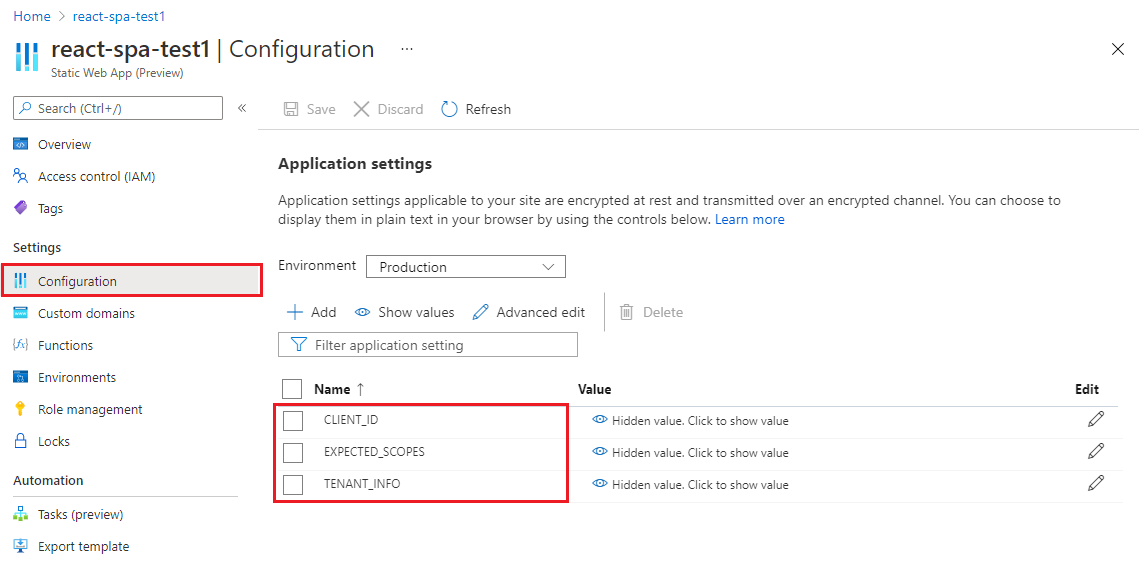
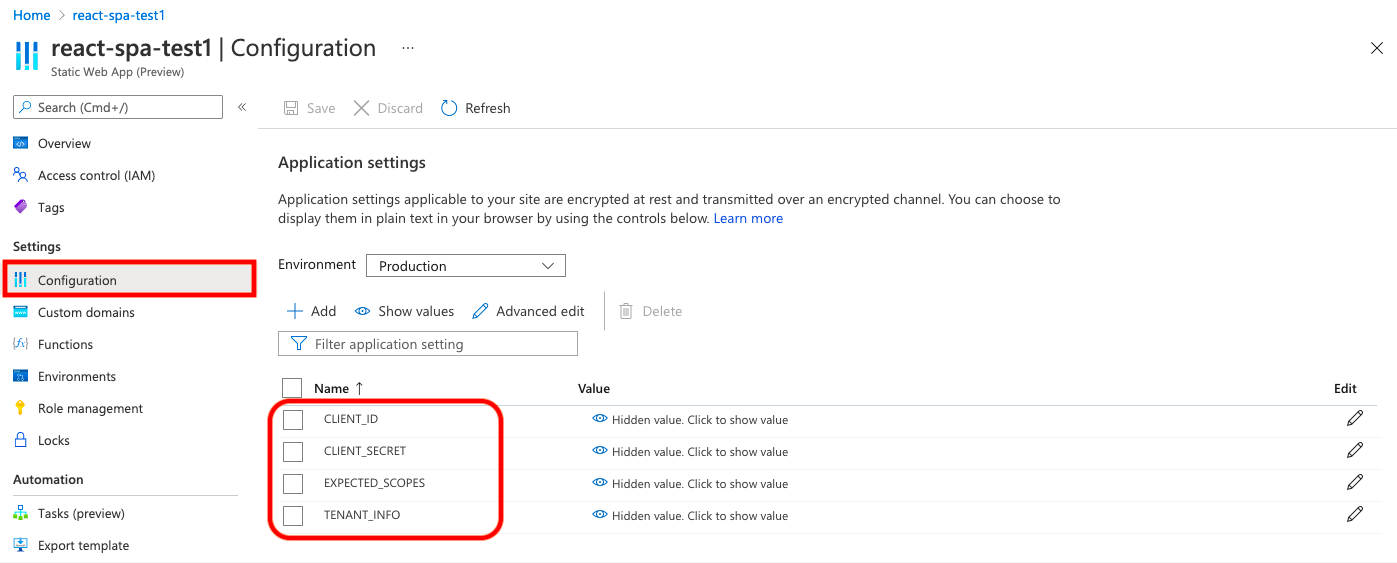
review changes

diff --git a/4-Deployment/1-deploy-storage/README.md b/4-Deployment/1-deploy-storage/README.md
@@ -32,15 +32,48 @@ For React applications with routing support, you can use [Azure Static Web Apps]
 - [VS Code Azure Tools Extension](https://marketplace.visualstudio.com/items?itemName=ms-vscode.vscode-node-azure-pack) extension is recommended for interacting with **Azure** through VS Code interface.
 - An **Azure subscription**. This sample uses **Azure Storage** and **Azure App Service**.
 
+## Setup
+
+### Step 1: Clone or download this repository
+
+From your shell or command line:
+
+```console
+    git clone https://github.com/Azure-Samples/ms-identity-javascript-react-tutorial.git
+```
+
+or download and extract the repository .zip file.
+
+> :warning: To avoid path length limitations on Windows, we recommend cloning into a directory near the root of your drive.
+
+### Step 2: Install project dependencies
+
+- Setup the service app:
+
+```console
+    cd ms-identity-javascript-react-tutorial
+    cd 4-Deployment/1-deploy-storage
+    cd API
+    npm install
+```
+
+- Setup the client app:
+
+```console
+    cd ..
+    cd SPA
+    npm install
+```
+
 ## Registration
 
 ### Register the service app (Node.js web API)
 
-Use the same app registration credentials that you've obtained during [**chapter 3-1**](../3-Authorization-II/1-call-api).
+Use the same app registration credentials that you've obtained during [**chapter 3-1**](../../3-Authorization-II/1-call-api/README.md#registration). Update your project files here as needed.
 
 ### Register the client app (React SPA)
 
-Use the same app registration credentials that you've obtained during [**chapter 3-1**](../3-Authorization-II/1-call-api).
+Use the same app registration credentials that you've obtained during [**chapter 3-1**](../../3-Authorization-II/1-call-api/README.md#registration). Update your project files here as needed.
 
 ## Deployment
 
@@ -80,10 +113,6 @@ Now you need to navigate to the **Azure App Service** Portal, and locate your pr
 
 ![disable_easy_auth](./ReadmeFiles/disable_easy_auth.png)
 
-#### Step 3: Enable cross-origin resource sharing (CORS)
-
-![enable_cors](./ReadmeFiles/enable_cors.png)
-
 ### Deploy the client app (React SPA)
 
 There are various ways to deploy your applications to **Azure Storage**. Here we provide steps for deployment via **VS Code Azure Tools Extension**. For more alternatives, visit: [Static website hosting in Azure Storage](https://docs.microsoft.com/azure/storage/blobs/storage-blob-static-website#uploading-content).
@@ -122,13 +151,19 @@ This will create a `build` folder. We will upload the contents of this folder ne
 
 #### Step 3: Update the client app's configuration files
 
-Now you need to update your authentication configuration files in the client project. To do so, go to your **Azure Storage Account** explorer via **VS Code** Azure panel. There, click on your project's name > Blob Container > Web as shown below:
+Now you need to update your authentication configuration files in the client project. To do so, go to your **Azure Storage Account** explorer via **VS Code** Azure panel. There, click on your project's name > **Blob Container** > **Web** as shown below:
 
 ![spa_step4](./ReadmeFiles/spa_step4.png)
 
 Open `authConfig.js`. Then:
 
 1. Find the key `protectedResources.apiHello.endpoint` and replace the existing value with your published web API's endpoint, e.g. `https://node-webapi-1.azurewebsites.net/hello`
+
+#### Step 4: Enable cross-origin resource sharing (CORS) for service app
+
+Finally, we need to enable Cross-Origin Resource Sharing by designating the domain of the SPA we've just deployed. Navigate to App Service portal and locate your web API. Then, enable CORS by entering your website's URI as shown below:
+
+![enable_cors](./ReadmeFiles/enable_cors.png)
 
 ## Explore the sample
 

diff --git a/4-Deployment/2-deploy-static/README.md b/4-Deployment/2-deploy-static/README.md
@@ -46,6 +46,8 @@ As a first step you'll need to:
 
 ### Register the app
 
+> :information_source: Below, we are using a single app registration for both SPA and function API components.
+
 1. Navigate to the [Azure portal](https://portal.azure.com) and select the **Azure AD** service.
 1. Select the **App Registrations** blade on the left, then select **New registration**.
 1. In the **Register an application page** that appears, enter your application's registration information:
@@ -156,9 +158,9 @@ There are various ways to deploy your applications to **Azure Static Web Apps**.
 1. Find the application you've created previously under **Azure Static Web Apps** and select it.
 1. Select the **Configuration** blade on the left hand side. Add the following **environment variables** there:
     1. `CLIENT_ID`: enter the application ID (clientId) of `msal-react-spa` app copied from the Azure portal.
-    1. `TENANT_ID`: enter your Azure AD tenant ID.
+    1. `TENANT_INFO`: enter your Azure AD tenant ID.
     1. `CLIENT_SECRET`: enter your client secret that you've obtained during app registration.
-    1. `EXPECTED_SCOPES`: enter the name of the scope in APP ID URI that you've registered earlier.
+    1. `EXPECTED_SCOPES`: enter the name of the scope you exposed earlier, e.g. `access_as_user`.
 
 ![Step9](./ReadmeFiles/step9.png)
 
@@ -169,7 +171,7 @@ For more information, see [Configure application settings for Azure Static Web A
 1. Open your browser and navigate to your deployed client app's URI, for instance: `https://reactspa1.z22.web.core.windows.net/`.
 1. Select the **Sign In** button on the top right corner. Choose either **Popup** or **Redirect** flow.
 1. Select the **Profile** button on the navigation bar. This will make a call to the Microsoft Graph API.
-1. Select the **FunctionAPI** button on the navigation bar. This will make a call to your web API which in turn calls the Microsoft Graph API.
+1. Select the **FunctionAPI** button on the navigation bar. This will make a call to your web API which in turn calls the Microsoft Graph. API.
 
 ![Screenshot](./ReadmeFiles/screenshot.png)
 

diff --git a/1-Authentication/1-sign-in/README-incremental.md b/1-Authentication/1-sign-in/README-incremental.md
@@ -137,6 +137,45 @@ Were we successful in addressing your learning objective? Consider taking a mome
 
 ## About the code
 
+MSAL React should be instantiated outside of the component tree to prevent it from being re-instantiated on re-renders. After instantiation, pass it as props to your application.
+
+```javascript
+const msalInstance = new PublicClientApplication(msalConfig);
+
+ReactDOM.render(
+    <React.StrictMode>
+        <App msalInstance={msalInstance}/>
+    </React.StrictMode>,
+    document.getElementById("root")
+);
+
+export default function App({msalInstance}) {
+
+    return (
+        <MsalProvider instance={msalInstance}>
+            <PageLayout>
+                <MainContent />
+            </PageLayout>
+        </MsalProvider>
+    );
+}
+```
+
+At the top of your component tree, wrap everything between **MsalProvider** component. All components underneath **MsalProvider** will have access to the *PublicClientApplication* instance via context as well as all hooks and components provided by msal-react.
+
+```javascript
+export default function App({msalInstance}) {
+
+    return (
+        <MsalProvider instance={msalInstance}>
+            <PageLayout>
+                <MainContent />
+            </PageLayout>
+        </MsalProvider>
+    );
+}
+```
+
 ### Sign-in
 
 MSAL.js exposes 3 login APIs: `loginPopup()`, `loginRedirect()` and `ssoSilent()`. These APIs are usable in MSAL React as well:

diff --git a/1-Authentication/1-sign-in/README.md b/1-Authentication/1-sign-in/README.md
@@ -151,6 +151,45 @@ Were we successful in addressing your learning objective? Consider taking a mome
 
 ## About the code
 
+MSAL React should be instantiated outside of the component tree to prevent it from being re-instantiated on re-renders. After instantiation, pass it as props to your application.
+
+```javascript
+const msalInstance = new PublicClientApplication(msalConfig);
+
+ReactDOM.render(
+    <React.StrictMode>
+        <App msalInstance={msalInstance}/>
+    </React.StrictMode>,
+    document.getElementById("root")
+);
+
+export default function App({msalInstance}) {
+
+    return (
+        <MsalProvider instance={msalInstance}>
+            <PageLayout>
+                <MainContent />
+            </PageLayout>
+        </MsalProvider>
+    );
+}
+```
+
+At the top of your component tree, wrap everything between **MsalProvider** component. All components underneath **MsalProvider** will have access to the *PublicClientApplication* instance via context as well as all hooks and components provided by msal-react.
+
+```javascript
+export default function App({msalInstance}) {
+
+    return (
+        <MsalProvider instance={msalInstance}>
+            <PageLayout>
+                <MainContent />
+            </PageLayout>
+        </MsalProvider>
+    );
+}
+```
+
 ### Sign-in
 
 MSAL.js exposes 3 login APIs: `loginPopup()`, `loginRedirect()` and `ssoSilent()`. These APIs are usable in MSAL React as well:

diff --git a/1-Authentication/2-sign-in-b2c/README-incremental.md b/1-Authentication/2-sign-in-b2c/README-incremental.md
@@ -124,6 +124,45 @@ Were we successful in addressing your learning objective? Consider taking a mome
 
 ## About the code
 
+MSAL React should be instantiated outside of the component tree to prevent it from being re-instantiated on re-renders. After instantiation, pass it as props to your application.
+
+```javascript
+const msalInstance = new PublicClientApplication(msalConfig);
+
+ReactDOM.render(
+    <React.StrictMode>
+        <App msalInstance={msalInstance}/>
+    </React.StrictMode>,
+    document.getElementById("root")
+);
+
+export default function App({msalInstance}) {
+
+    return (
+        <MsalProvider instance={msalInstance}>
+            <PageLayout>
+                <MainContent />
+            </PageLayout>
+        </MsalProvider>
+    );
+}
+```
+
+At the top of your component tree, wrap everything between **MsalProvider** component. All components underneath **MsalProvider** will have access to the *PublicClientApplication* instance via context as well as all hooks and components provided by msal-react.
+
+```javascript
+export default function App({msalInstance}) {
+
+    return (
+        <MsalProvider instance={msalInstance}>
+            <PageLayout>
+                <MainContent />
+            </PageLayout>
+        </MsalProvider>
+    );
+}
+```
+
 ### Sign-in
 
 MSAL.js exposes 3 login APIs: `loginPopup()`, `loginRedirect()` and `ssoSilent()`. These APIs are usable in MSAL React as well:

diff --git a/1-Authentication/2-sign-in-b2c/README.md b/1-Authentication/2-sign-in-b2c/README.md
@@ -138,6 +138,45 @@ Were we successful in addressing your learning objective? Consider taking a mome
 
 ## About the code
 
+MSAL React should be instantiated outside of the component tree to prevent it from being re-instantiated on re-renders. After instantiation, pass it as props to your application.
+
+```javascript
+const msalInstance = new PublicClientApplication(msalConfig);
+
+ReactDOM.render(
+    <React.StrictMode>
+        <App msalInstance={msalInstance}/>
+    </React.StrictMode>,
+    document.getElementById("root")
+);
+
+export default function App({msalInstance}) {
+
+    return (
+        <MsalProvider instance={msalInstance}>
+            <PageLayout>
+                <MainContent />
+            </PageLayout>
+        </MsalProvider>
+    );
+}
+```
+
+At the top of your component tree, wrap everything between **MsalProvider** component. All components underneath **MsalProvider** will have access to the *PublicClientApplication* instance via context as well as all hooks and components provided by msal-react.
+
+```javascript
+export default function App({msalInstance}) {
+
+    return (
+        <MsalProvider instance={msalInstance}>
+            <PageLayout>
+                <MainContent />
+            </PageLayout>
+        </MsalProvider>
+    );
+}
+```
+
 ### Sign-in
 
 MSAL.js exposes 3 login APIs: `loginPopup()`, `loginRedirect()` and `ssoSilent()`. These APIs are usable in MSAL React as well:
